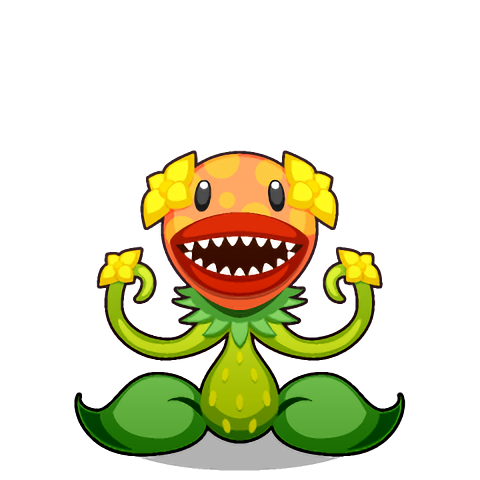
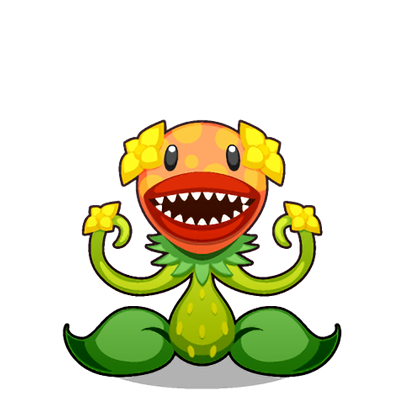
Adjusted enemy sprite display setting and edited the enemies' images

Changed region(s): [[0.15, 0.3, 0.87, 0.99]]

diff --git a/angularjsRPG/src/app/components/fight/fight.component.css b/angularjsRPG/src/app/components/fight/fight.component.css
@@ -12,7 +12,7 @@
 }
 
 .enemy img {
-	width: 65%;
+	width: 100%;
 	height: calc(100% - 20px);
 	transform: scaleX(-1);
 }
